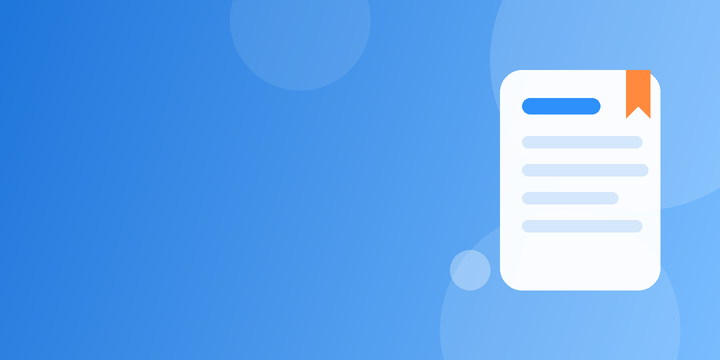
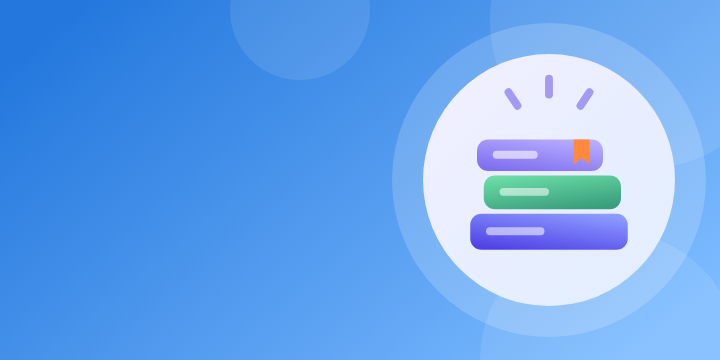
Единый стиль «мягкий градиент»: кнопки, иллюстрации, баннеры
* Кнопки: большие и маленькие собраны в common.py (_button, small_button),
  главная с фиолетовым градиентом и цветной тенью; цвета в theme.py
  (BUTTON_GRADIENT, BUTTON_SHADOW), так что стиль меняется в одном месте.
* Пустые состояния: рисунки вместо эмодзи (росток, книги, друзья, колокольчик),
  empty_state(message, art=...).
* Баннеры главного экрана пересобраны в том же стиле (цветной фон и рисунок
  в круге справа), скрипт tools/render_art.py собирает и рисунки, и баннеры.
* Из текстов убраны эмодзи 🎉; с экрана профиля убрана строка «Сервер: …».

Claude-Session: https://claude.ai/code/session_014suU8YPEDLbZeWjcnim5zT

Changed region(s): [[0.5194, 0.0917, 0.9778, 0.9472]]

diff --git a/mobile/tools/render_art.py b/mobile/tools/render_art.py
@@ -1,10 +1,14 @@
-"""Превращает рисунки из tools/art/*.svg в PNG для приложения (assets/images/illustrations).
+"""Превращает рисунки из tools/art/*.svg в PNG для приложения и собирает баннеры главного экрана.
 
 Запуск (нужны Python-пакет playwright и браузер Chromium):  python tools/render_art.py [имя ...]
-Без имён рисует все. Размеры в пикселях заданы в SIZES; рисунки с прозрачным фоном
-сохраняются с прозрачностью. Чтобы поменять рисунок, правьте SVG и запустите скрипт снова.
+Без имён рисует всё. Размеры в пикселях заданы в SIZES; рисунки с прозрачным фоном сохраняются
+с прозрачностью. Чтобы поменять рисунок, правьте SVG и запустите скрипт снова.
+
+Рисунки лежат в assets/images/illustrations, баннеры в assets/images/banners. Баннер собирается из
+цветного фона и одной из иллюстраций справа (слева остаётся место под текст, его рисует приложение).
 """
 
+import re
 import sys
 from pathlib import Path
 
@@ -12,33 +16,78 @@ from playwright.sync_api import sync_playwright
 
 HERE = Path(__file__).resolve().parent
 SRC = HERE / "art"
-OUT = HERE.parent / "assets" / "images" / "illustrations"
+ASSETS = HERE.parent / "assets" / "images"
+OUT = ASSETS / "illustrations"
+BANNERS = ASSETS / "banners"
 
 # имя файла без .svg -> (ширина, высота) готового PNG
 SIZES = {
     "welcome": (1080, 540),
     "sprout": (480, 480),
+    "books": (480, 480),
+    "friends": (480, 480),
+    "bell": (480, 480),
+    "tishka_smile": (510, 420),
+    "tishka_calm": (510, 420),
 }
+
+# баннер -> (цвет слева, цвет справа, иллюстрация)
+BANNER_ART = {
+    "article": ("#2478DD", "#7DBBFF", "books"),
+    "habit": ("#27976A", "#7FD7A8", "sprout"),
+    "friends": ("#F07422", "#FDBF86", "friends"),
+    "sos": ("#5B4BDD", "#A395F7", "tishka_smile"),
+}
+BANNER_W, BANNER_H = 720, 360
+
+
+def inline(name: str) -> str:
+    """Содержимое SVG для вставки в другой SVG: id градиентов получают приставку, чтобы не пересекались."""
+    svg = (SRC / f"{name}.svg").read_text(encoding="utf-8")
+    ids = set(re.findall(r'id="([^"]+)"', svg))
+    for i in ids:
+        svg = svg.replace(f'id="{i}"', f'id="{name}_{i}"').replace(f"url(#{i})", f"url(#{name}_{i})")
+    return svg
+
+
+def banner_svg(left: str, right: str, art: str) -> str:
+    size = 270
+    x, y = BANNER_W - size - 36, (BANNER_H - size) // 2
+    inner = re.sub(r'(<svg[^>]*?) width="\d+" height="\d+"', r"\1", inline(art), count=1)
+    inner = inner.replace("<svg ", f'<svg x="{x}" y="{y}" width="{size}" height="{size}" preserveAspectRatio="xMidYMid meet" ', 1)
+    return f"""<svg xmlns="http://www.w3.org/2000/svg" viewBox="0 0 {BANNER_W} {BANNER_H}" width="{BANNER_W}" height="{BANNER_H}">
+  <defs><linearGradient id="bg" x1="0" y1="0.2" x2="1" y2="0.8"><stop offset="0" stop-color="{left}"/><stop offset="1" stop-color="{right}"/></linearGradient></defs>
+  <rect width="{BANNER_W}" height="{BANNER_H}" fill="url(#bg)"/>
+  <circle cx="300" cy="10" r="70" fill="#fff" opacity="0.10"/>
+  <circle cx="640" cy="20" r="150" fill="#fff" opacity="0.10"/>
+  <circle cx="610" cy="360" r="130" fill="#fff" opacity="0.10"/>
+  <circle cx="{x + size / 2}" cy="{y + size / 2}" r="{size / 2 + 22}" fill="#fff" opacity="0.18"/>
+  {inner}
+</svg>"""
+
+
+def shoot(browser, svg: str, w: int, h: int, path: Path) -> None:
+    svg = re.sub(r"<svg ", f"<svg style='width:{w}px;height:{h}px;display:block' ", svg, count=1)
+    page = browser.new_page(viewport={"width": w, "height": h})
+    page.set_content(f"<html><body style='margin:0;background:transparent'>{svg}</body></html>")
+    page.screenshot(path=str(path), omit_background=True, clip={"x": 0, "y": 0, "width": w, "height": h})
+    page.close()
+    print("готово:", path.name)
 
 
 def main(names: list[str]) -> None:
     OUT.mkdir(parents=True, exist_ok=True)
-    names = names or list(SIZES)
+    BANNERS.mkdir(parents=True, exist_ok=True)
+    everything = not names
     with sync_playwright() as p:
         browser = p.chromium.launch()
-        for name in names:
-            w, h = SIZES[name]
-            svg = (SRC / f"{name}.svg").read_text(encoding="utf-8")
-            page = browser.new_page(viewport={"width": w, "height": h})
-            page.set_content(
-                "<html><body style='margin:0;background:transparent'>"
-                f"<div style='width:{w}px;height:{h}px'>"
-                + svg.replace("<svg ", f"<svg style='width:{w}px;height:{h}px;display:block' ", 1)
-                + "</div></body></html>"
-            )
-            page.screenshot(path=str(OUT / f"{name}.png"), omit_background=True, clip={"x": 0, "y": 0, "width": w, "height": h})
-            page.close()
-            print("готово:", name)
+        for name in names or list(SIZES):
+            if name in SIZES:
+                w, h = SIZES[name]
+                shoot(browser, (SRC / f"{name}.svg").read_text(encoding="utf-8"), w, h, OUT / f"{name}.png")
+        for name, (left, right, art) in BANNER_ART.items():
+            if everything or f"banner_{name}" in names:
+                shoot(browser, banner_svg(left, right, art), BANNER_W, BANNER_H, BANNERS / f"{name}.png")
         browser.close()
 
 

diff --git a/mobile/components/common.py b/mobile/components/common.py
@@ -72,51 +72,66 @@ def card(content, padding=16, on_click=None, bgcolor=theme.CARD, radius=20, **kw
     )
 
 
-def _button(label, on_click, bgcolor, color, side=None, height=52) -> ft.Row:
-    button = ft.ElevatedButton(
-        content=txt(label, 15, W_SEMI, color),
-        on_click=on_click,
-        height=height,
-        expand=True,
-        style=ft.ButtonStyle(
-            color=color,
-            bgcolor=bgcolor,
-            elevation=0,
-            side=side,
-            shape=ft.RoundedRectangleBorder(radius=16),
-        ),
+def _gradient() -> ft.LinearGradient:
+    return ft.LinearGradient(
+        begin=ft.alignment.top_left, end=ft.alignment.bottom_right, colors=theme.BUTTON_GRADIENT
     )
-    return ft.Row([button])
+
+
+def _button(label, on_click, color, bgcolor=None, gradient=None, border=None, shadow=None, height=52) -> ft.Row:
+    """Большая кнопка на всю ширину. Форма, заливка и тени всех больших кнопок задаются здесь и ниже."""
+    return ft.Row(
+        [
+            ft.Container(
+                content=txt(label, 15, W_SEMI, color, text_align=ft.TextAlign.CENTER),
+                expand=True,
+                height=height,
+                border_radius=16,
+                bgcolor=bgcolor,
+                gradient=gradient,
+                border=border,
+                shadow=shadow,
+                alignment=ft.alignment.center,
+                ink=True,  # волна при нажатии
+                on_click=on_click,
+            )
+        ]
+    )
 
 
 def primary_button(label, on_click) -> ft.Row:
-    return _button(label, on_click, theme.PRIMARY, theme.WHITE)
+    shadow = ft.BoxShadow(blur_radius=18, spread_radius=-2, color=theme.BUTTON_SHADOW, offset=ft.Offset(0, 8))
+    return _button(label, on_click, theme.WHITE, gradient=_gradient(), shadow=shadow)
 
 
 def soft_button(label, on_click) -> ft.Row:
-    return _button(label, on_click, theme.PRIMARY_SOFT, theme.PRIMARY)
+    return _button(label, on_click, theme.PRIMARY, bgcolor=theme.PRIMARY_SOFT)
 
 
 def outline_button(label, on_click) -> ft.Row:
-    return _button(label, on_click, theme.CARD, theme.PRIMARY, side=ft.BorderSide(1.5, theme.PRIMARY_SOFT))
+    return _button(label, on_click, theme.PRIMARY, bgcolor=theme.CARD, border=ft.border.all(1.5, theme.PRIMARY_SOFT))
 
 
 def danger_button(label, on_click) -> ft.Row:
-    return _button(label, on_click, theme.RED_SOFT, theme.RED)
+    return _button(label, on_click, theme.RED, bgcolor=theme.RED_SOFT)
 
 
-def small_button(label, on_click, filled=True, color=theme.PRIMARY) -> ft.ElevatedButton:
-    return ft.ElevatedButton(
+def small_button(label, on_click, filled=True, color=theme.PRIMARY) -> ft.Container:
+    """Маленькая кнопка по размеру надписи. filled=True: градиент (или сплошной цвет, если color не основной),
+    filled=False: светлая заливка."""
+    if not filled:
+        fill = dict(bgcolor=theme.PRIMARY_SOFT)
+    elif color == theme.PRIMARY:
+        fill = dict(gradient=_gradient())
+    else:
+        fill = dict(bgcolor=color)
+    return ft.Container(
         content=txt(label, 13, W_SEMI, theme.WHITE if filled else color),
+        padding=ft.padding.symmetric(horizontal=16, vertical=9),
+        border_radius=12,
+        ink=True,
         on_click=on_click,
-        height=36,
-        style=ft.ButtonStyle(
-            color=theme.WHITE if filled else color,
-            bgcolor=color if filled else theme.PRIMARY_SOFT,
-            elevation=0,
-            shape=ft.RoundedRectangleBorder(radius=12),
-            padding=ft.padding.symmetric(horizontal=16),
-        ),
+        **fill,
     )
 
 
@@ -264,14 +279,13 @@ def loading() -> ft.Container:
     )
 
 
-def empty_state(message: str, emoji=None, art="sprout") -> ft.Container:
-    """Пустое состояние: иллюстрация (art) и подпись. emoji осталось для экранов, где ещё нет своего рисунка."""
-    picture = ft.Text(emoji, size=40) if emoji else illustration(art, 96)
+def empty_state(message: str, art="sprout") -> ft.Container:
+    """Пустое состояние: иллюстрация из assets/images/illustrations (sprout, books, friends, bell) и подпись."""
     return ft.Container(
         alignment=ft.alignment.center,
         padding=24,
         content=ft.Column(
-            [picture, muted(message, 14, text_align=ft.TextAlign.CENTER)],
+            [illustration(art, 96), muted(message, 14, text_align=ft.TextAlign.CENTER)],
             horizontal_alignment=ft.CrossAxisAlignment.CENTER,
             spacing=8,
         ),
@@ -320,6 +334,13 @@ ILLUSTRATIONS = "images/illustrations/"
 def illustration(name: str, size=88) -> ft.Image:
     """Квадратная иллюстрация из assets/images/illustrations (рисунки лежат в mobile/tools/art)."""
     return ft.Image(src=f"{ILLUSTRATIONS}{name}.png", width=size, height=size, fit=ft.ImageFit.CONTAIN)
+
+
+def tishka(mood="smile", width=120) -> ft.Image:
+    """Помощник Тишка (облачко): mood = "smile" (улыбается) или "calm" (глаза закрыты, для дыхания и трудных минут)."""
+    return ft.Image(
+        src=f"{ILLUSTRATIONS}tishka_{mood}.png", width=width, height=round(width * 420 / 510), fit=ft.ImageFit.CONTAIN
+    )
 
 
 def picture_panel(name: str, height=170, radius=24) -> ft.Container:

diff --git a/mobile/screens/friends.py b/mobile/screens/friends.py
@@ -51,7 +51,7 @@ class FriendsScreen(Screen):
                 controls.append(self._person_row(person, accept=True))
         controls.append(ui.txt("Мои друзья", 18, ui.W_BOLD))
         if not data["friends"]:
-            controls.append(ui.empty_state("Друзей пока нет. Добавьте первого по коду.", "🤝"))
+            controls.append(ui.empty_state("Друзей пока нет. Добавьте первого по коду.", art="friends"))
         for person in data["friends"]:
             controls.append(self._person_row(person))
         if data["outgoing"]:
@@ -97,7 +97,7 @@ class FriendsScreen(Screen):
         result = self.app.api.post("/friends/by-code", {"code": code})
         name = result["person"]["name"]
         if result["status"] == "accepted":
-            self.app.toast(f"{name} теперь в друзьях 🎉")
+            self.app.toast(f"{name} теперь в друзьях")
         else:
             self.app.toast(f"Заявка отправлена: {name}")
         self.code_field.value = ""
@@ -105,7 +105,7 @@ class FriendsScreen(Screen):
 
     def accept(self, person: dict) -> None:
         self.app.api.post(f"/friends/{person['id']}/accept")
-        self.app.toast(f"{person['name']} теперь в друзьях 🎉")
+        self.app.toast(f"{person['name']} теперь в друзьях")
         self.refresh()
 
     def remove(self, person: dict, ask: bool) -> None:

diff --git a/mobile/screens/notifications.py b/mobile/screens/notifications.py
@@ -32,7 +32,7 @@ class NotificationsScreen(Screen):
         if any(not n["read"] for n in nudges):
             api.post("/nudges/read")  # показываем непрочитанные выделенными, но дальше они уже прочитаны
         if not nudges:
-            return [ui.empty_state("Пока тихо. Здесь будут напоминания и поддержка от напарников.", "🔔")]
+            return [ui.empty_state("Пока тихо. Здесь будут напоминания и поддержка от напарников.", art="bell")]
 
         controls: list[ft.Control] = []
         for nudge in nudges:

diff --git a/mobile/screens/profile.py b/mobile/screens/profile.py
@@ -87,7 +87,6 @@ class ProfileScreen(Screen):
             ui.soft_button("Редактировать профиль", lambda e: app.push(EditProfileScreen(app, me))),
             ui.danger_button("Выйти", lambda e: app.confirm("Выйти из аккаунта?", "Вы сможете войти снова в любой момент.",
                                                             "Выйти", app.logout)),
-            ft.Row([ui.muted(f"Сервер: {app.api.base_url}", 11)], alignment=ft.MainAxisAlignment.CENTER),
             ui.spacer(8),
         ]
         return controls

diff --git a/mobile/screens/habit.py b/mobile/screens/habit.py
@@ -107,7 +107,7 @@ class HabitScreen(Screen):
                     bgcolor=theme.GREEN_SOFT,
                     border_radius=16,
                     padding=14,
-                    content=ui.txt("Сегодня выполнено 🎉 " + streak_text(habit["current_streak"]), 14, ui.W_SEMI, theme.GREEN),
+                    content=ui.txt("Сегодня выполнено. " + streak_text(habit["current_streak"]), 14, ui.W_SEMI, theme.GREEN),
                 ),
                 ui.outline_button("Отменить отметку", self.app.guard(self.undo)),
             ]

diff --git a/mobile/screens/articles.py b/mobile/screens/articles.py
@@ -101,7 +101,7 @@ class ArticlesScreen(Screen):
             )
         controls.append(ft.Row(chips, scroll=ft.ScrollMode.AUTO, spacing=8))
         if not articles:
-            controls.append(ui.empty_state("В этой теме пока нет статей", "📚"))
+            controls.append(ui.empty_state("В этой теме пока нет статей", art="books"))
         for article in articles:
             controls.append(article_card(app, article, lambda e, a=article: app.push(ArticleScreen(app, a["id"]))))
         controls.append(ui.spacer(8))

diff --git a/mobile/theme.py b/mobile/theme.py
@@ -16,6 +16,9 @@ PRIMARY = "#6C5CE7"
 PRIMARY_DARK = "#5547D0"
 PRIMARY_SOFT = "#EEEBFD"
 PRIMARY_GRADIENT = ["#6C5CE7", "#8C7CF4"]
+# главные кнопки: градиент и цветная тень (стиль «мягкий градиент»; менять здесь, в одном месте)
+BUTTON_GRADIENT = ["#7E6EF0", "#5A49DC"]
+BUTTON_SHADOW = "#476C5CE7"  # формат #AARRGGBB: фиолетовая тень с прозрачностью около 28%
 
 GREEN = "#3CB878"
 GREEN_LIGHT = "#8FD9AE"

diff --git a/mobile/screens/home.py b/mobile/screens/home.py
@@ -215,7 +215,7 @@ class HomeScreen(Screen):
             caption = f"Осталось отметить: {len(pending)}"
             action = ui.small_button("Отметить привычки", lambda e: self.mark_dialog(pending))
         else:
-            caption = "Всё отмечено, так держать! 🎉"
+            caption = "Всё отмечено, так держать!"
             action = ui.muted("Завтра продолжим", 12)
         return ui.card(
             ft.Row(
